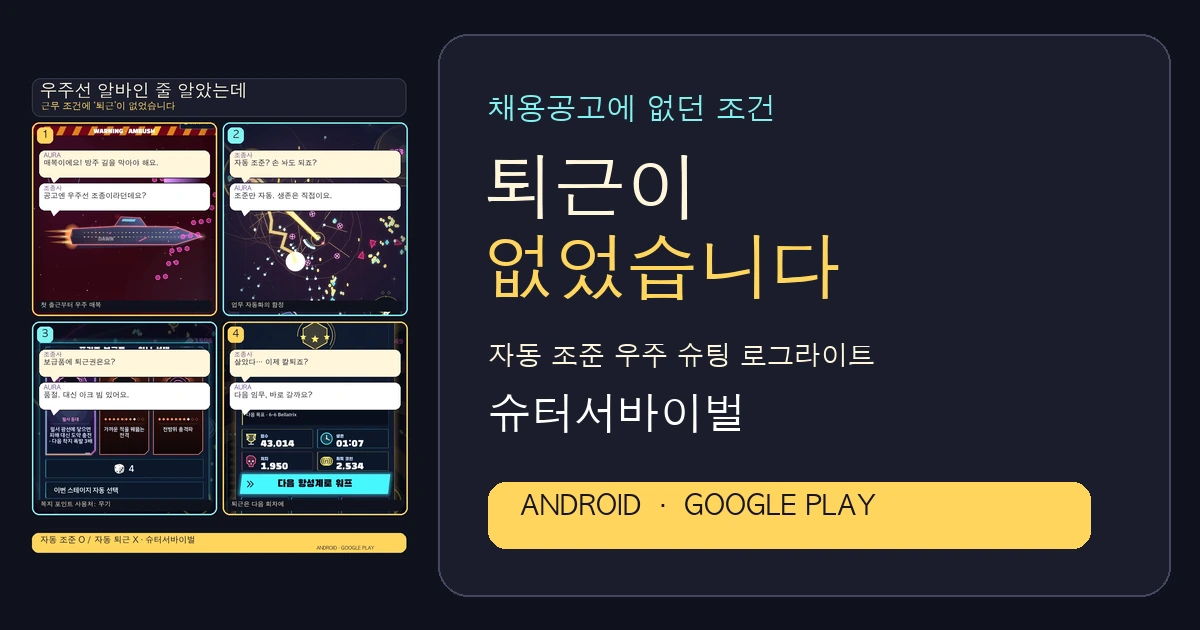
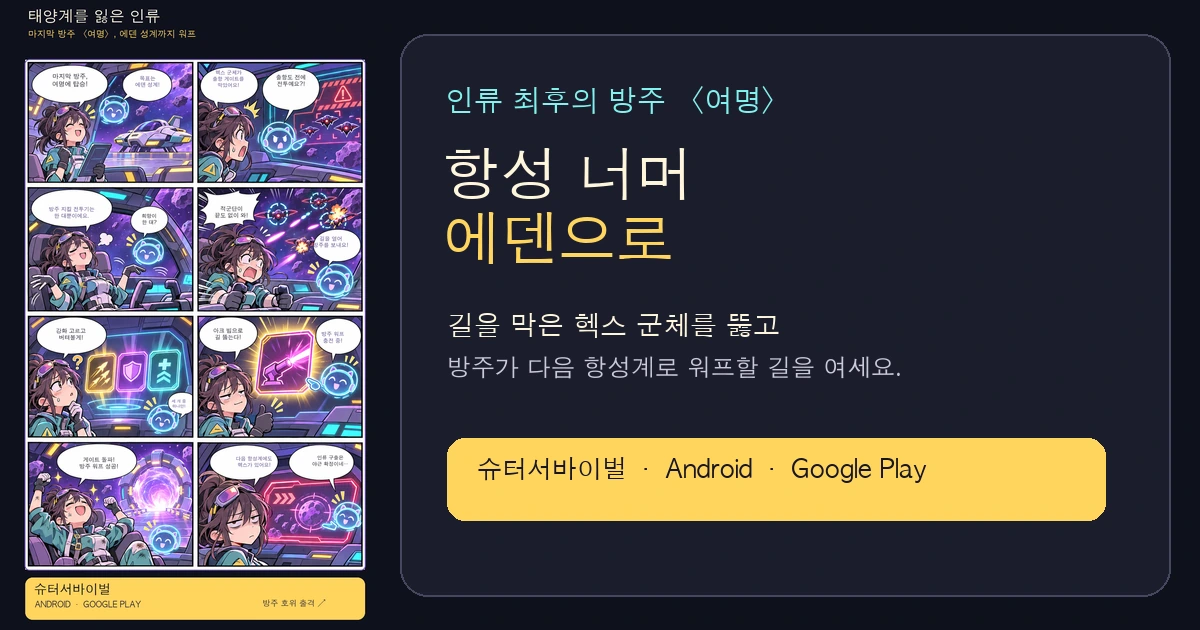
Update Shooter Survival promo with ark story comic

diff --git a/fun/shooter-survival/index.html b/fun/shooter-survival/index.html
@@ -4,27 +4,27 @@
   <meta charset="utf-8">
   <meta name="viewport" content="width=device-width, initial-scale=1">
   <meta name="theme-color" content="#10121c">
-  <title>우주선 알바인 줄 알았는데 퇴근이 없었다 | 슈터서바이벌</title>
-  <meta name="description" content="매복 대응부터 자동 조준까지, 우주선 근무 조건을 만화로 확인하세요. 슈터서바이벌은 Google Play에서 설치할 수 있는 Android 우주 슈팅 로그라이트입니다.">
+  <title>태양계를 잃은 인류, 방주 여명 | 슈터서바이벌</title>
+  <meta name="description" content="태양계를 잃은 인류의 마지막 방주 여명. 항법 AI AURA와 함께 헥스 군체가 막아선 길을 열고, 방주를 다음 항성계로 보내세요. 슈터서바이벌은 Google Play Android 우주 슈팅 로그라이트입니다.">
   <link rel="canonical" href="https://mike-kor.github.io/fun/shooter-survival/">
   <meta property="og:type" content="website">
   <meta property="og:site_name" content="INDANG SOFT">
-  <meta property="og:title" content="우주선 알바인 줄 알았는데 퇴근이 없었다">
-  <meta property="og:description" content="자동 조준은 돼도 자동 퇴근은 안 되는 우주 근무 만화. 슈터서바이벌, Android · Google Play.">
+  <meta property="og:title" content="태양계를 잃은 인류, 방주 여명">
+  <meta property="og:description" content="전투기는 한 대뿐. 헥스 군체가 막아선 길을 열고, 마지막 방주를 다음 항성계로 보내세요. 슈터서바이벌 · Android · Google Play.">
   <meta property="og:url" content="https://mike-kor.github.io/fun/shooter-survival/">
   <meta property="og:image" content="https://mike-kor.github.io/fun/shooter-survival/og-shooter-survival-comic.webp">
   <meta property="og:image:width" content="1200">
   <meta property="og:image:height" content="630">
   <meta name="twitter:card" content="summary_large_image">
-  <meta name="twitter:title" content="우주선 알바인 줄 알았는데 퇴근이 없었다">
-  <meta name="twitter:description" content="자동 조준은 돼도 자동 퇴근은 안 되는 우주 근무 만화. 슈터서바이벌, Android · Google Play.">
+  <meta name="twitter:title" content="태양계를 잃은 인류, 방주 여명">
+  <meta name="twitter:description" content="전투기는 한 대뿐. 헥스 군체가 막아선 길을 열고, 마지막 방주를 다음 항성계로 보내세요. 슈터서바이벌 · Android · Google Play.">
   <meta name="twitter:image" content="https://mike-kor.github.io/fun/shooter-survival/og-shooter-survival-comic.webp">
   <link rel="icon" href="/assets/indang-succulent.svg" type="image/svg+xml">
   <style>
     :root{color-scheme:dark;--bg:#10121c;--panel:#1b1d2b;--cream:#fff6dc;--yellow:#ffd45d;--cyan:#80f3f0;--muted:#b9b5c8}
     *{box-sizing:border-box}html{background:var(--bg)}body{margin:0;background:radial-gradient(ellipse at 50% 0,#25213a 0,var(--bg) 48rem);color:var(--cream);font-family:-apple-system,BlinkMacSystemFont,"Apple SD Gothic Neo","Noto Sans KR",sans-serif;line-height:1.65}
     main{width:min(100% - 32px,760px);margin:0 auto;padding:28px 0 54px}.topline{display:flex;align-items:center;justify-content:space-between;color:var(--muted);font-size:.78rem;letter-spacing:.12em}.mark{display:flex;align-items:center;gap:9px}.mark img{width:30px;height:30px}.mark b{color:white;letter-spacing:.04em}.android{color:var(--cyan);font-weight:700;letter-spacing:.08em}
-    h1{font-size:clamp(2.1rem,8vw,4.2rem);line-height:1.13;letter-spacing:-.06em;margin:34px 0 8px}h1 em{font-style:normal;color:var(--yellow)}.dek{font-size:1.08rem;color:#d7d3e1;margin:0 0 24px}.comic{display:block;width:100%;height:auto;border:1px solid #48465f;border-radius:18px;box-shadow:0 22px 70px #0008}
+    h1{font-size:clamp(2rem,7.5vw,3.8rem);line-height:1.17;letter-spacing:-.06em;margin:34px 0 8px}h1 em{font-style:normal;color:var(--yellow)}.dek{font-size:1.08rem;color:#d7d3e1;margin:0 0 24px}.comic{display:block;width:100%;height:auto;border:1px solid #48465f;border-radius:18px;box-shadow:0 22px 70px #0008}
     .story{margin:28px 0;padding:22px 24px;background:#1b1d2b;border:1px solid #37364b;border-radius:18px}.story strong{color:var(--cyan)}.story p{margin:.35em 0}.story p+p{margin-top:12px}.cta{display:flex;justify-content:center;align-items:center;gap:12px;width:100%;margin:20px 0 10px;padding:17px 22px;border-radius:16px;background:var(--yellow);color:#171520;text-decoration:none;font-size:1.08rem;font-weight:850;box-shadow:0 8px 0 #bb9140;transition:transform .15s,box-shadow .15s}.cta:hover{transform:translateY(2px);box-shadow:0 6px 0 #bb9140}.store-note{text-align:center;color:var(--muted);font-size:.88rem}footer{padding:26px 0 8px;text-align:center;color:#8b8798;font-size:.75rem;letter-spacing:.09em}
     @media(min-width:720px){main{padding-top:38px}.dek{font-size:1.2rem}.story{font-size:1.08rem;padding:27px 30px}}
   </style>
@@ -32,13 +32,12 @@
 <body>
   <main>
     <div class="topline"><span class="mark"><img src="/assets/app-icons/shooter-survival.png" alt=""><span>INDANG <b>SOFT</b></span></span><span class="android">ANDROID GAME</span></div>
-    <h1>우주선 알바인 줄 알았는데<br><em>퇴근이 없었습니다.</em></h1>
-    <p class="dek">매복 대응부터 무기 보급까지. 채용공고에 없던 우주 근무 조건, 4컷으로 확인하세요.</p>
-    <img class="comic" src="/fun/shooter-survival/shooter-survival-comic.webp" alt="슈터서바이벌 만화: 매복 대응, 자동 조준, 무기 보급품, 다음 임무까지 이어지는 우주선 알바 이야기" width="1080" height="1350">
+    <h1>태양계를 잃은 인류,<br><em>마지막 방주 〈여명〉</em></h1>
+    <p class="dek">목적지는 에덴 성계. 헥스 군체가 막아선 게이트를 돌파해 방주가 다음 항성계로 워프할 길을 여세요.</p>
+    <img class="comic" src="/fun/shooter-survival/shooter-survival-comic-8cut.webp" alt="슈터서바이벌 8컷 만화: 태양계를 잃은 인류의 마지막 방주 여명을 호위하며 헥스 군체를 뚫고 항성계를 이동하는 이야기" width="1080" height="1920">
     <section class="story">
-      <p><strong>AURA:</strong> “방주가 워프 엔진을 데우는 동안 누군가 길을 막아야 해요.”</p>
-      <p>자동 조준이면 편하냐고요? 조준만 자동입니다. 생존과 퇴근은 직접 챙겨야 합니다.</p>
-      <p>무기 보급품에서 빌드를 고르고, 네온 전장을 돌파하는 우주 슈팅 로그라이트예요.</p>
+      <p><strong>항법 AI AURA:</strong> “게이트마다 헥스 군체가 길목을 막고 있어요. 당신이 길을 열면 방주가 뒤따라 도약해요.”</p>
+      <p>기체를 직접 움직여 적의 탄막을 피하고, 자동 조준 전투로 적 편대와 보스에 맞서세요. 전투 중에는 세 가지 강화 중 하나를 골라 무기 빌드를 완성할 수 있어요.</p>
     </section>
     <a class="cta" href="https://play.google.com/store/apps/details?id=com.shootersurvival.app&amp;referrer=utm_source%3Dpromo_page%26utm_medium%3Dsocial%26utm_campaign%3Ddaily-fun" target="_blank" rel="noopener">Google Play에서 설치하기 <span aria-hidden="true">↗</span></a>
     <p class="store-note">슈터서바이벌 · Android · Google Play</p>
